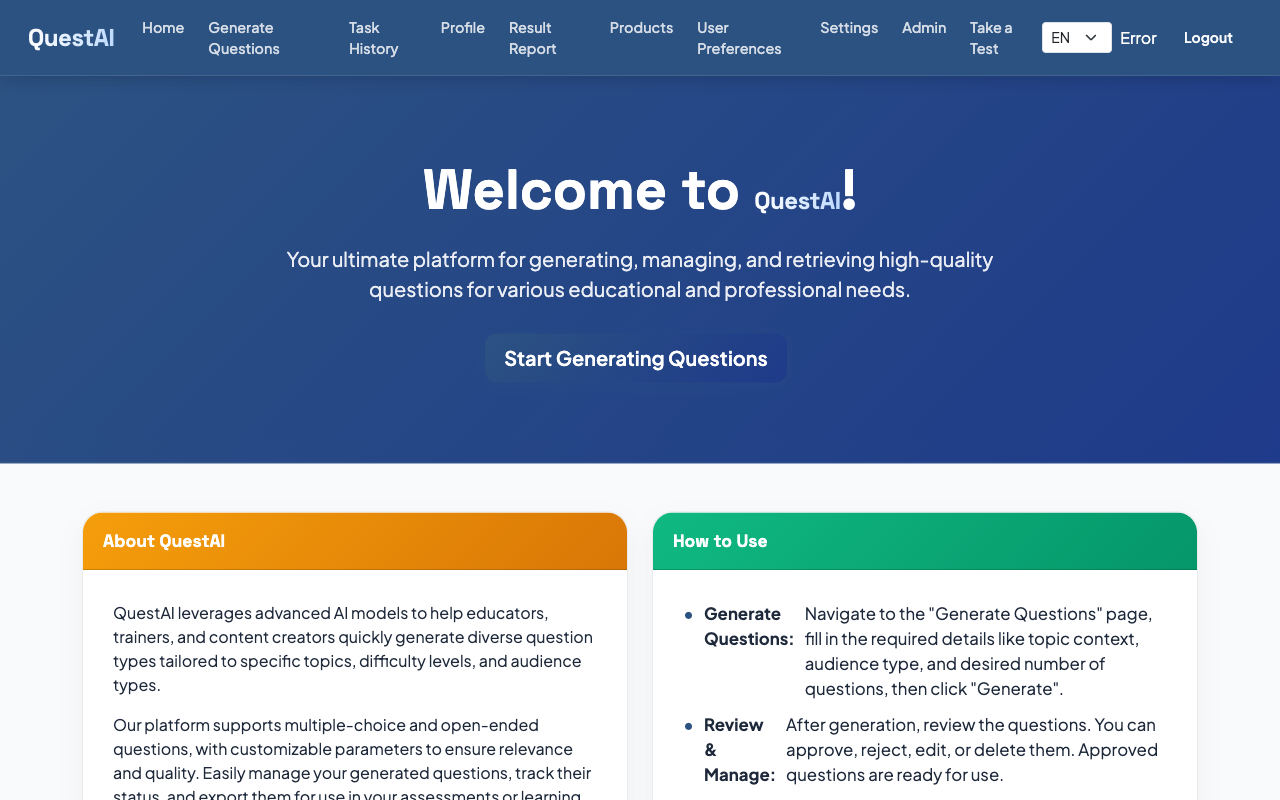
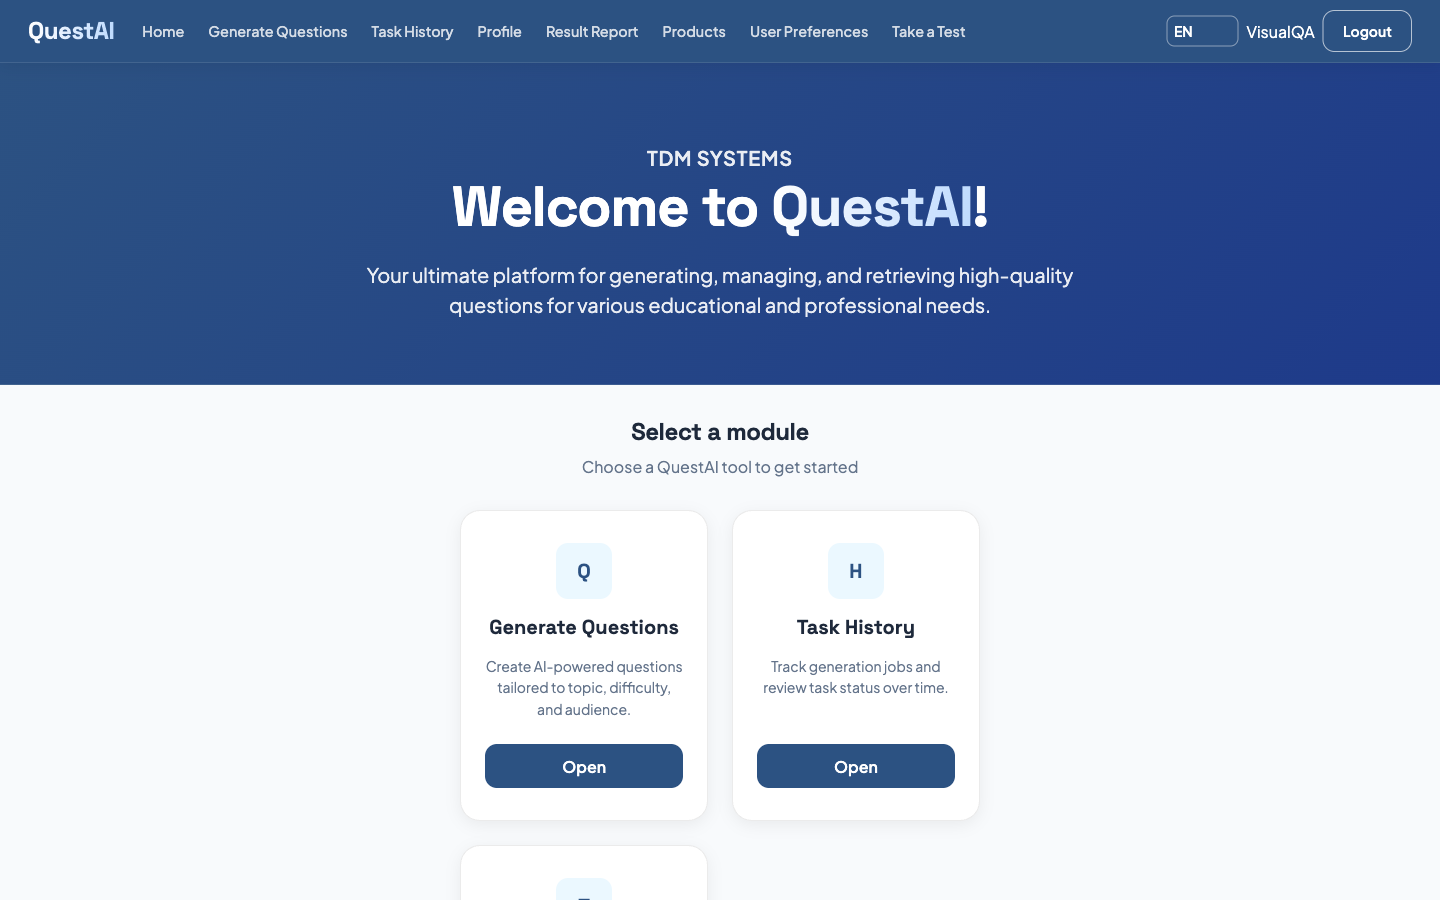
[QA-C] Refresh Phase C QuestAI visual gate screenshots.
Document PASS against suite tokens/fonts, login≈home chrome, and generate wizard first-step density.

diff --git a/orchestration/TICKETS.md b/orchestration/TICKETS.md
@@ -330,7 +330,7 @@ Update **Status** here when dispatching, and mirror via `gh issue` (comment / cl
 
 **Acceptance:**
 - [x] Login no longer reads as default Bootstrap-only card
-- [ ] QA refresh: `qi-login-desktop.png`, `qi-home-desktop.png`
+- [x] QA refresh: `qi-login-desktop.png`, `qi-home-desktop.png`
 
 ---
 
@@ -347,14 +347,14 @@ Update **Status** here when dispatching, and mirror via `gh issue` (comment / cl
 
 **Acceptance:**
 - [x] Gateway CTAs consistent with website hub language
-- [ ] QA refresh: `qi-home-desktop.png`, `qi-home-mobile.png`
+- [x] QA refresh: `qi-home-desktop.png`, `qi-home-mobile.png`
 
 ---
 
 ### C4 — Generate form progressive disclosure
 | Field | Value |
 |-------|--------|
-| **Status** | in_progress |
+| **Status** | done |
 | **GitHub** | [#20](https://github.com/mohammadyounes-prog/my-projects-the-3-projects-/issues/20) |
 | **Agent** | QuestAI |
 | **parallel** | no |
@@ -365,7 +365,7 @@ Update **Status** here when dispatching, and mirror via `gh issue` (comment / cl
 **Acceptance:**
 - [x] First viewport shows a clear step, not every control
 - [x] Existing generate flow still callable after steps
-- [ ] QA refresh: `qi-index-desktop.png`
+- [x] QA refresh: `qi-index-desktop.png`
 
 ---
 
@@ -384,7 +384,7 @@ Update **Status** here when dispatching, and mirror via `gh issue` (comment / cl
 ### QA-C — Phase C visual gate
 | Field | Value |
 |-------|--------|
-| **Status** | todo |
+| **Status** | done |
 | **GitHub** | [#22](https://github.com/mohammadyounes-prog/my-projects-the-3-projects-/issues/22) |
 | **Agent** | Visual QA |
 | **Depends on** | C1–C4 |
@@ -393,6 +393,8 @@ Update **Status** here when dispatching, and mirror via `gh issue` (comment / cl
 `qi-login-desktop.png`, `qi-home-desktop.png`, `qi-home-mobile.png`, `qi-index-desktop.png`
 
 **Pass if:** Phase C exit criteria; suite walk Website → QI home → Dashboard login still coherent.
+
+**Visual QA (2026-07-25):** PASS — static frontend `:6016`; home/index captured with dummy `localStorage` `access_token=qa-c-dummy-token`, `username=VisualQA`, `role=teacher`, `isAdmin=0`, `isSuperAdmin=0`, `lang=en`. Shared `css/suite-tokens.css` linked (synced from design-system); `--suite-primary #2c5282` / header `rgb(44,82,130)`; Space Grotesk + Plus Jakarta Sans; login navbar matches home primary chrome; generate wizard step 1 only (~3 fields, form ~444px vs 900 viewport). Residual (non-blocking): login has no EN/AR switcher (home/index do); mobile home expands full nav stack at ~390px.
 
 ---
 
